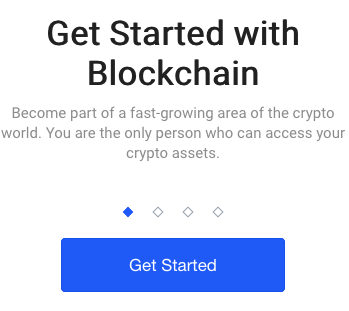
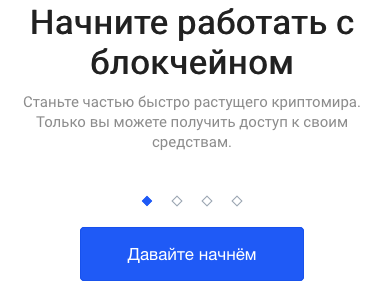
Updates

diff --git a/ru/waves-client/account-management/creating-an-account.md b/ru/waves-client/account-management/creating-an-account.md
@@ -1,59 +1,52 @@
-# **How to Create an Account**
+# **Как создать Waves аккаунт**
 
-You can use either online version of the client, or standalone version for Mac, PC or Linux. All versions support automatic update!
-Also downloads are available from the official site - https://wavesplatform.com/product
+Вы можете использовать онлайн или настольную версию приложения на Mac, PC или Linux. Все версии поддерживают автоматическое обновление. Загрузки доступны на официальном сайте - https://wavesplatform.com/product
 
-Choose and open up your Waves wallet.
+Выберите и откройте выбранный тип приложения.
 
-Please take some time to understand some important things for your own safety.
-We cannot recover your funds or freeze your account if you visit a phishing site or lose your backup phrase (aka SEED phrase).
-By continuing to use our platform, you agree to accept all risks associated with the loss of your SEED, including but not limited to the inability to obtain your funds and dispose of them.
-In case you lose your SEED, you agree and acknowledge that the Waves Platform would not be responsible for the negative consequences of this.
+Пожалуйста, уделите немного времени для того, чтобы ознакомиться с важной информацией.
+Мы не можем вернуть ваши средства или заморозить ваш аккаунт, если вы ввели свой SEED на фишинговом сайте или потеряли секретную фразу (SEED).
 
-To continue, click on the **What you need to know about your SEED**
+Продолжая использовать нашу платформу, вы соглашаетесь с тем, что в случае утраты вами секретной фразы (SEED), платформа Waves не сможет восстановить доступ к вашему аккаунту или вернуть вам ваши средства. Только вы контролируете свой аккаунт и ответственны за сохранность секретной фразы.
 
-We strongly recommend reading all articles before you begin.
+Для продолжения нажмите на **Что вам нужно знать о секретной фразе**. Мы настоятельно рекомендуем вам внимательно прочесть статьи перед началом.
 
-![](/_assets/account_creation_001.png)
+![](/ru/_assets/account_creation_001.png)
 
-Click on the **Get Started** to start the process of creating your account.
+Нажмите на **Давайте начнем**.
 
-![](/_assets/account_creation_01.png)
+![](/ru/_assets/account_creation_01.png)
 
-Choose your address avatar. When you have done so, choose account name and wallet password then repeat the password.
-Click on the **Continue** button.
+**Выбирете аватар вашего адреса**. После этого, укажите **Название аккаунта**, затем введите пароль и повторите ввод пароля.
+Для перехода на следующий этап нажмите на кнопку **Продолжить**.
 
-![](/_assets/account_creation_002.png)
+![](/ru/_assets/account_creation_002.png)
 
-Now, it's an important step to backup your account by clicking **Back Up Now**.
+Далее вам следует создать резервную копию Seed фразы.
+Для этого нажмите **Сохранить сейчас**.
 
-Waves will display an important reminder. Never provide your backup phrase to anyone except the official Waves client.  We recommend that you write the backup phrase on a piece of paper and store it in a secure location.  Do not store the backup phrase unencrypted on any electronic device.
+![](/ru/_assets/account_creation_03.png)
 
-![](/_assets/account_creation_03.png)
+Внимательно прочитайте предупреждение и только после этого нажмите **Я понимаю**.
 
-Carefully read the warning and only then click on **I understand**
+![](/ru/_assets/account_creation_04.png)
 
-![](/_assets/account_creation_04.png)
+После этого вы получите Seed фразу от вашего аккаунта.
+Запишите Seed фразу и сохраните в надёжном месте - после этого нажмите **Я все записал**.
 
-After that, you will get account seed phrase.
-Waves wants to make sure you actually wrote down the backup phrase. Therefore, Waves will ask you to verify the backup phrase before proceeding to your Waves account.
-Create several copies of the seed phrase and click on **I've written it down**
+![](/ru/_assets/account_creation_05.png)
 
-![](/_assets/account_creation_05.png)
+Расположите все слова Seed фразы в верном порядке для перехода к следующему шагу (просто нажимайте на слова).
+Если вы допустили ошибку, то нажмите **Стереть и ввести заново**.
+После завершения нажмите **Подтвердить**.
 
-Сonfirm your seed phrase with a correct sequence of words (just click on the words).
-If you made a mistake just click on Clear and start the process again.
+![](/ru/_assets/account_creation_06.png)
 
-After finishing, click on the **Confirm**.
+Далее вам останется только внимательно прочитать условия и поставить отметки о прочтении.
+После прочтения нажмите **Подтвердить и начать**.
 
-![](/_assets/account_creation_06.png)
+![](/ru/_assets/account_creation_07.png)
 
-At the final stage, read carefully the conditions and if you are agree, put the checkboxes.
+Если вы справились со всеми заданиями на "пятёрку", то перед собой вы увидите рабочий интерфейс Waves приложения.
 
-Click on **Confirm and Begin**.
-
-![](/_assets/account_creation_07.png)
-
-If you have done all of the above, you are forwarded to the user interface.
-
-![](/_assets/account_creation_08.png)
+![](/ru/_assets/account_creation_08.png)

diff --git a/ru/SUMMARY.md b/ru/SUMMARY.md
@@ -38,8 +38,8 @@
     * [Переводы Bitcoin Cash](/ru/waves-client/transfers-and-gateways/bitcoin-cash-transfers.md)
     * [Переводы Dash](/ru/waves-client/transfers-and-gateways/dash-transfers.md)
     * [Переводы Monero](/ru/waves-client/transfers-and-gateways/monero-transfers.md)
-    * [Перевода EUR и USD](/ru/waves-client/transfers-and-gateways/eur-usd-transfers.md)
-    * [Покупка Waves используя банковскую карту](/ru/waves-client/transfers-and-gateways/buying-waves-using-card.md)
+    * [Перевод EUR и USD](/ru/waves-client/transfers-and-gateways/eur-usd-transfers.md)
+    * [Покупка Waves с банковской карты](/ru/waves-client/transfers-and-gateways/buying-waves-using-card.md)
   * [Waves DEX](/ru/waves-client/waves-dex.md)
     * [Использование биржи DEX](/ru/waves-client/waves-dex/start-trading-using-the-waves-dex.md)
   * [Управление ассетами](/ru/waves-client/assets-management.md)
